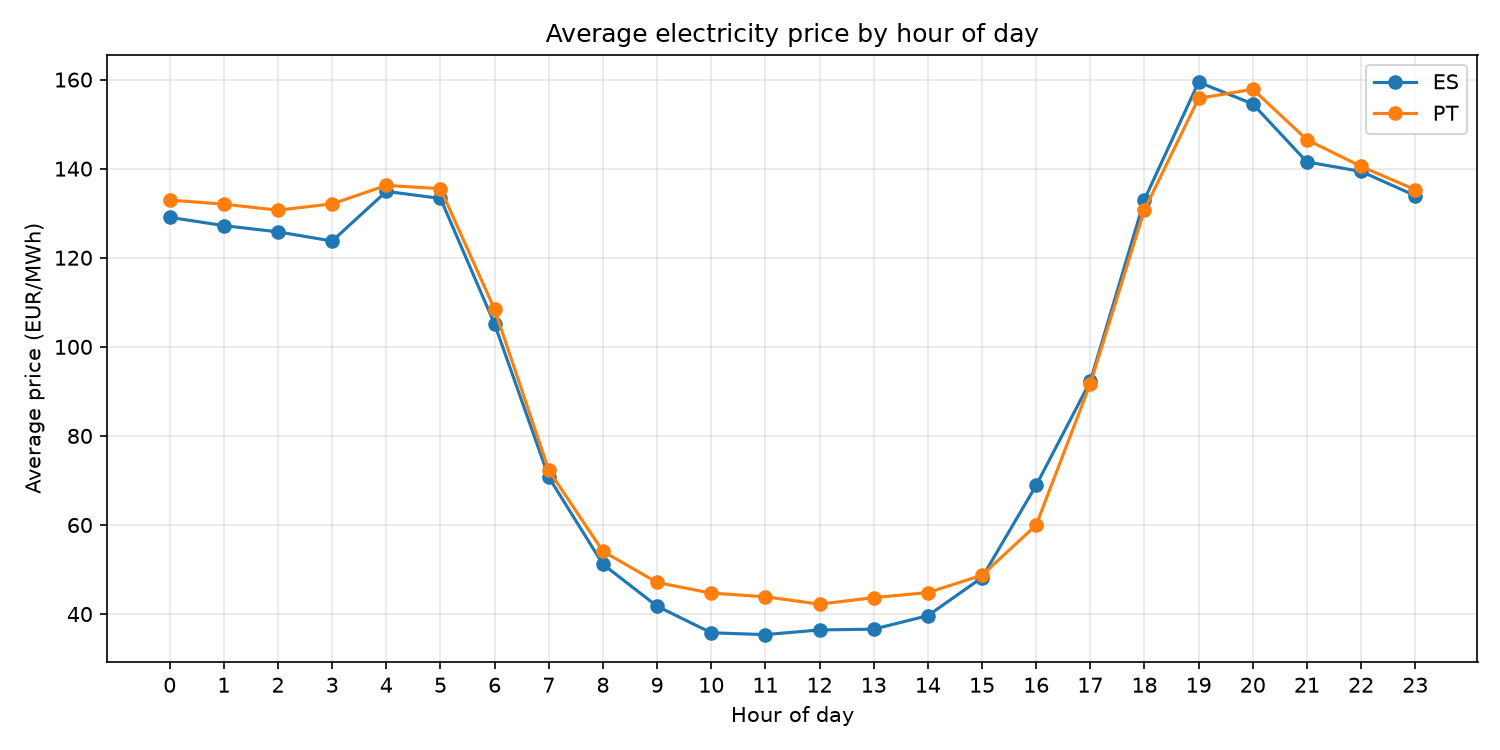
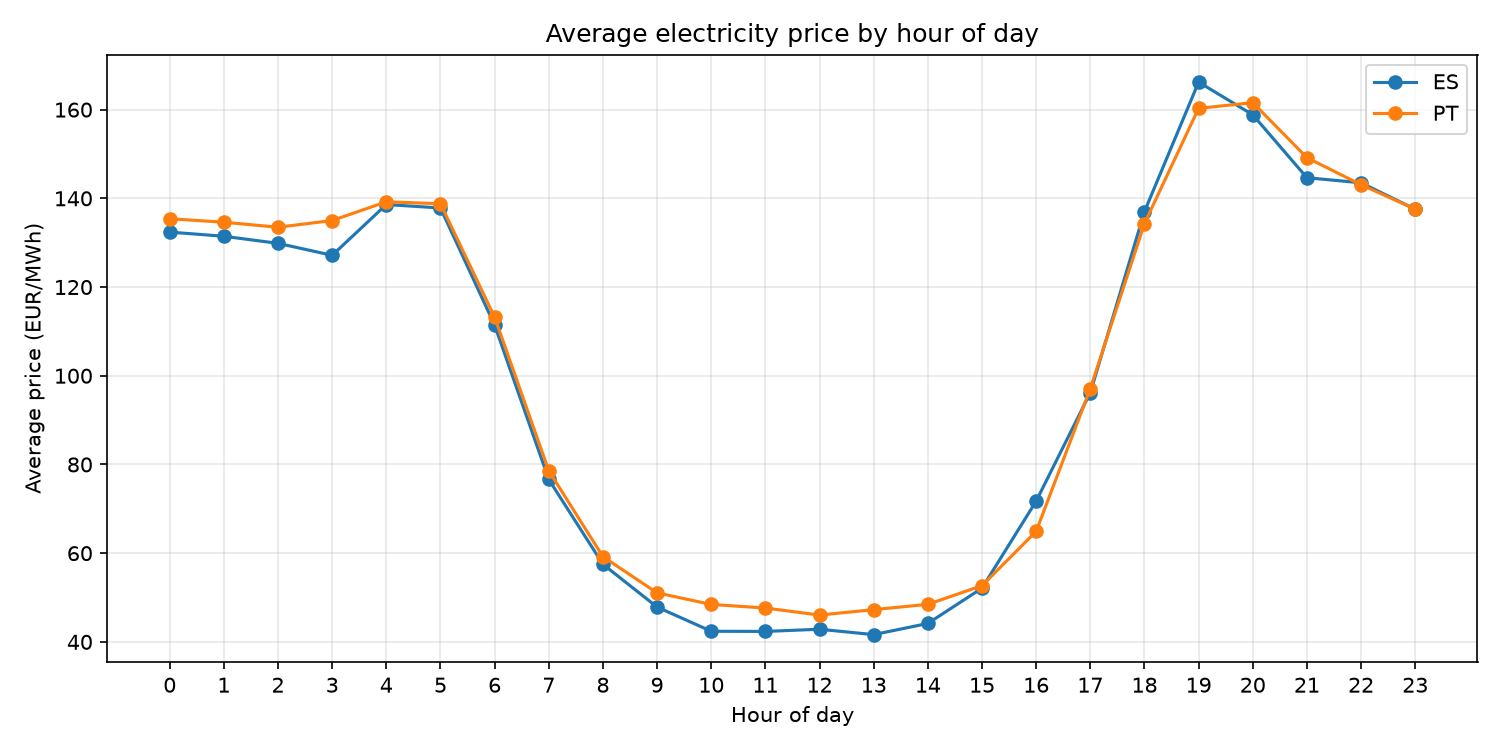
Update charts with latest data, fix README clone URL and add trend finding
Data now runs through 2026-07-22. Also embeds the monthly trend chart
that was generated but never referenced, and fixes the placeholder
clone URL/folder name left over from the public-release prep.

diff --git a/README.md b/README.md
@@ -63,8 +63,8 @@ electricity_prices table (Postgres) — upserted, deduplicated history
 **1. Clone and set up the environment**
 
 ```bash
-git clone <this-repo-url>
-cd energia-precos
+git clone https://github.com/rodhipolito/electricity-prices-pt-es.git
+cd electricity-prices-pt-es
 python -m venv venv
 venv\Scripts\activate        # Windows
 pip install -r requirements.txt
@@ -102,16 +102,19 @@ python scripts/analysis.py          # print findings + regenerate charts in /cha
 
 ## Findings
 
-Based on ~3 weeks of 15-minute day-ahead data for PT and ES (June–July 2026):
+Based on ~25 days of 15-minute day-ahead data for PT and ES (June–July 2026):
 
-- **Clear hourly pattern.** Prices trough around midday (PT: ~42 EUR/MWh at 12:00, driven by solar generation) and peak in the early evening (PT: ~158 EUR/MWh at 20:00, as solar drops off and demand ramps up) — roughly a 3.7x swing within a single day.
+- **Clear hourly pattern.** Prices trough around midday (PT: ~46 EUR/MWh at 12:00, driven by solar generation) and peak in the early evening (PT: ~162 EUR/MWh at 20:00, as solar drops off and demand ramps up) — roughly a 3.5x swing within a single day.
 - **Negative prices happen, briefly.** Several days saw the daily minimum dip slightly below zero (e.g. -1.30 EUR/MWh, -0.81 EUR/MWh), consistent with midday oversupply from solar generation outstripping demand.
-- **Weekends are meaningfully cheaper.** PT weekend average price is **28.7% lower** than the weekday average (76.45 vs. 107.15 EUR/MWh), reflecting lower industrial demand.
-- **PT and ES decouple more often than you'd expect.** Despite being part of the same MIBEL coupled market, 43.2% of intervals showed a significant price gap (>10 EUR/MWh) between the two zones — concentrated on weekdays (49.1% of weekday intervals vs. 27.7% on weekends) and more frequent in the mid-afternoon (16:00–17:00, >60% of intervals), pointing to recurring interconnection congestion rather than random noise.
+- **Weekends are meaningfully cheaper.** PT weekend average price is **31.2% lower** than the weekday average (76.45 vs. 111.18 EUR/MWh), reflecting lower industrial demand.
+- **PT and ES decouple more often than you'd expect.** Despite being part of the same MIBEL coupled market, 45.2% of intervals showed a significant price gap (>10 EUR/MWh) between the two zones — concentrated on weekdays (51.1% of weekday intervals vs. 27.7% on weekends) and more frequent in the mid-afternoon (16:00–17:00, >60% of intervals), pointing to recurring interconnection congestion rather than random noise.
+- **Prices trended sharply upward over the period.** PT's daily average rose from 70.85 EUR/MWh (first 7 days) to 124.41 EUR/MWh (last 7 days) — a **+75.6%** increase, consistent with the summer heat driving up demand.
 
 ![Average electricity price by hour of day, PT vs ES](charts/chart_hourly_pattern.png)
 
 ![Portugal: weekday vs. weekend price pattern](charts/chart_weekend_vs_weekday.png)
+
+![Daily average price trend, PT vs ES](charts/chart_monthly_trend.png)
 
 Full write-up: [LINK]
 